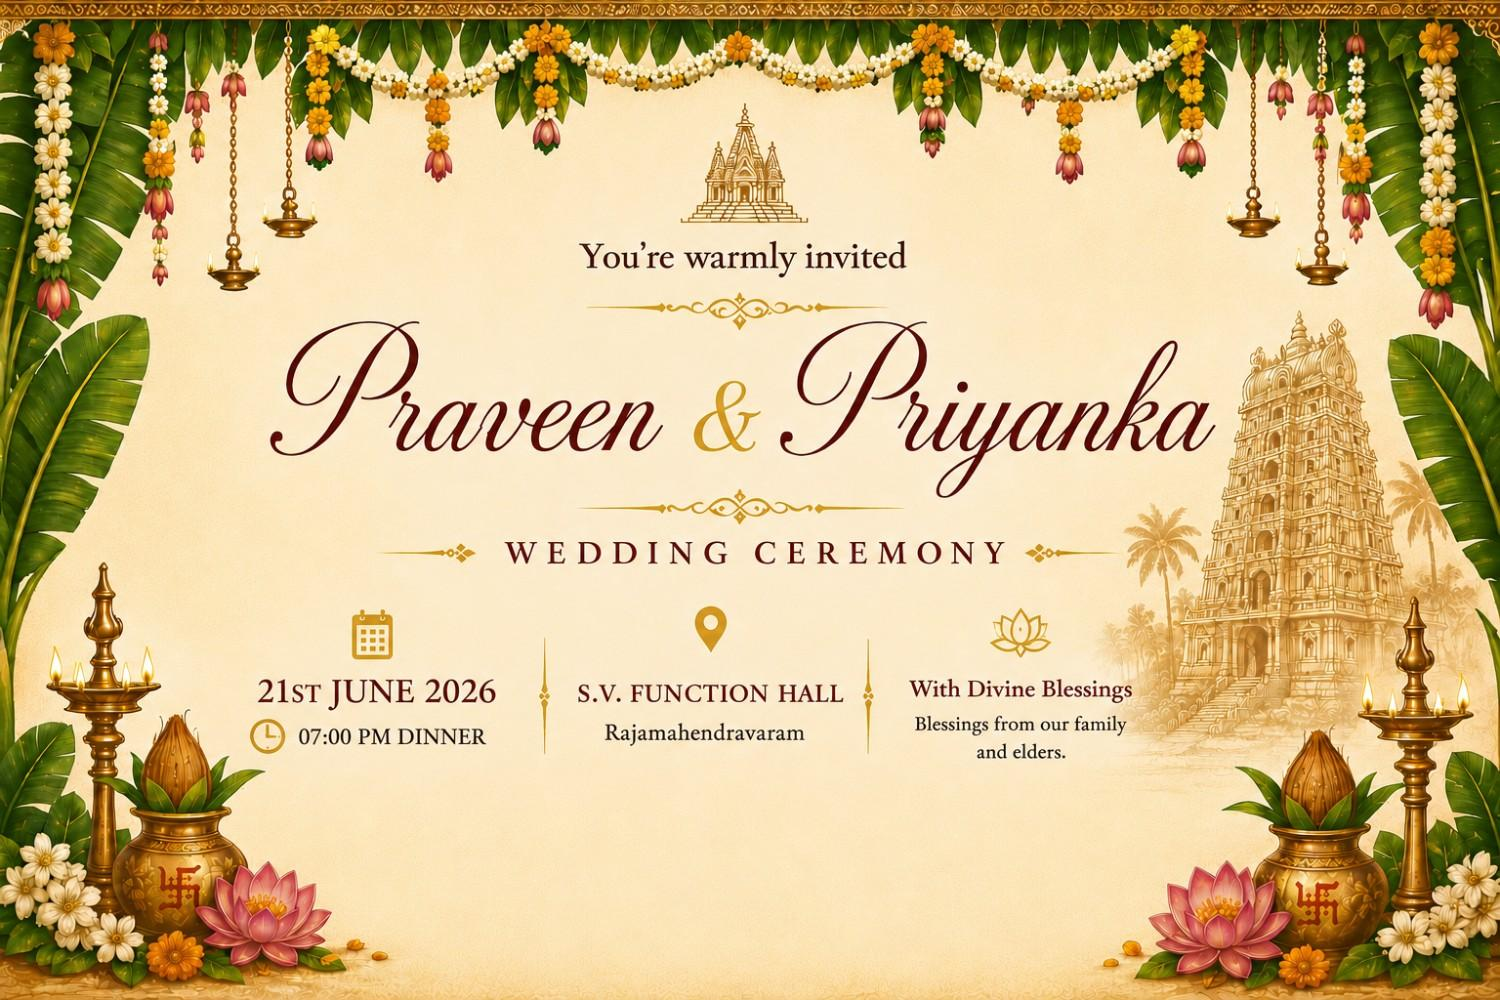
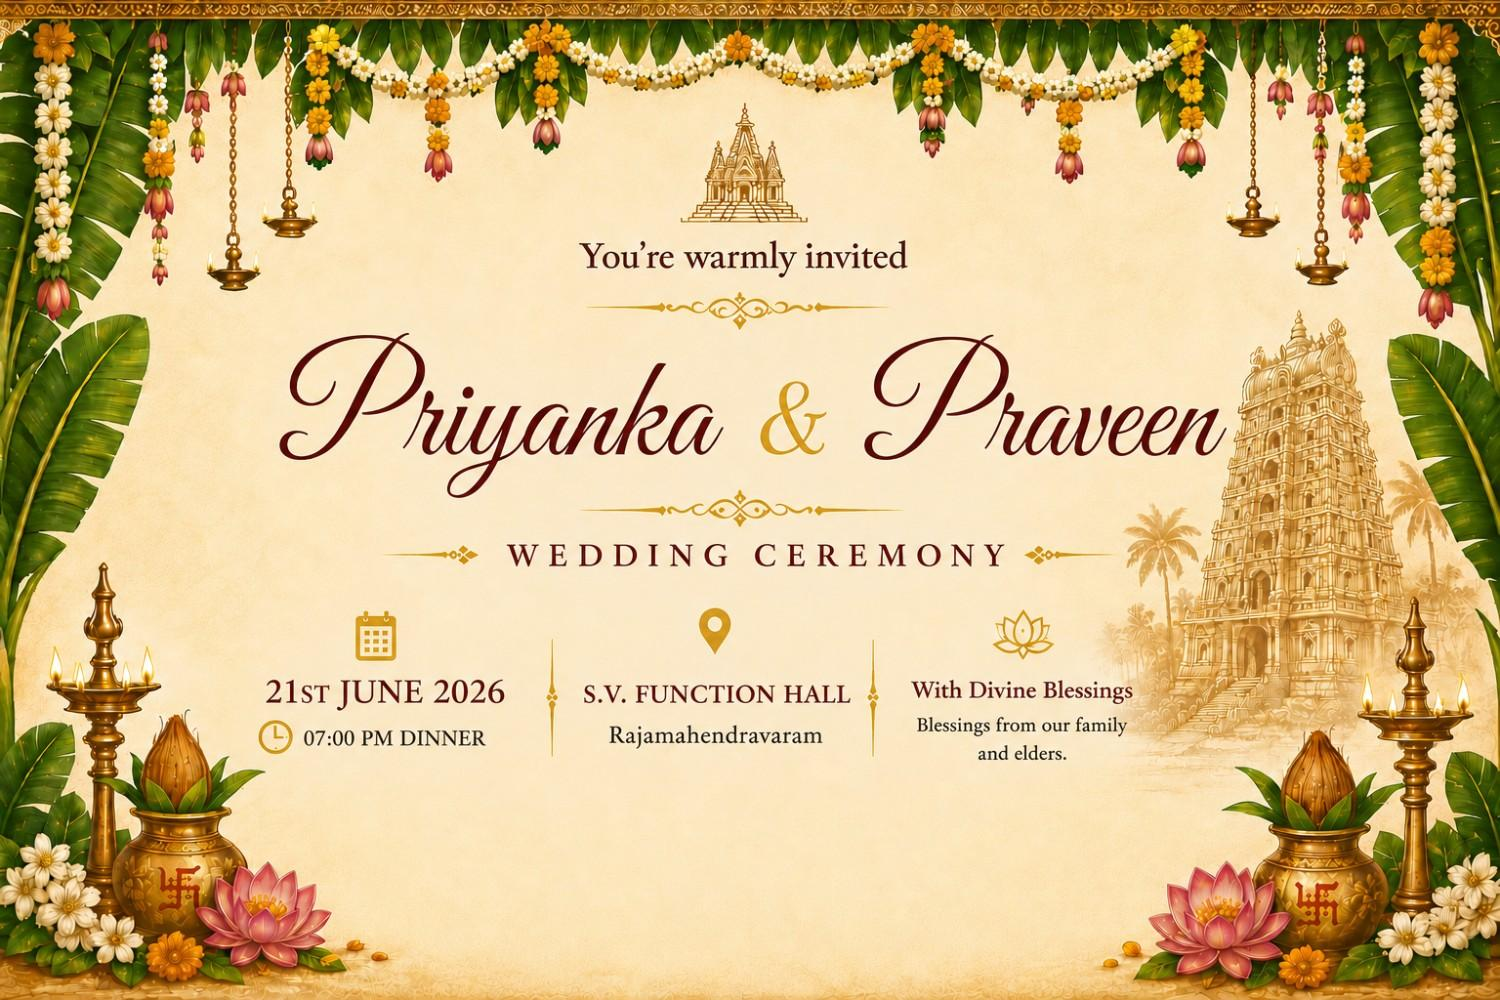
priya marriage

diff --git a/src/components/WeddingInvitation.jsx b/src/components/WeddingInvitation.jsx
@@ -19,7 +19,7 @@ const GOOGLE_MAPS_EMBED_URL =
   "https://www.google.com/maps/embed?pb=!1m18!1m12!1m3!1d4525.768375667284!2d81.804959!3d17.006156300000004!2m3!1f0!2f0!3f0!3m2!1i1024!2i768!4f13.1!3m3!1m2!1s0x3a37a3bf6658436f%3A0x9f226cd13ee3e272!2sS%20V%20Function%20Hall!5e1!3m2!1sen!2sin!4v1779564738906!5m2!1sen!2sin";
 
 const WHATSAPP_RSVP_URL =
-  "https://wa.me/918142721111?text=Hi%20Praveen%2C%20We%20are%20happy%20to%20join%20Praveen%20%26%20Priyanka's%20wedding%20celebration.%20Looking%20forward%20to%20being%20there%20and%20blessing%20the%20couple.";
+  "https://wa.me/918142721111?text=Hi%20Praveen%2C%20We%20are%20happy%20to%20join%20Priyanka%20%26%20Praveen's%20wedding%20celebration.%20Looking%20forward%20to%20being%20there%20and%20blessing%20the%20couple.";
 
 const FAMILY_CONTACT_NUMBER = "+919392015858";
 const MUHURTHAM_DATE = new Date("2026-06-22T02:32:00+05:30");
@@ -59,20 +59,20 @@ const events = [
 
 const calendarEvents = [
   {
-    title: "Praveen & Priyanka Wedding Dinner",
-    fileName: "praveen-priyanka-dinner.ics",
+    title: "Priyanka & Praveen Wedding Dinner",
+    fileName: "priyanka-praveen-dinner.ics",
     start: "20260621T190000",
     end: "20260621T223000",
     description:
-      "Wedding dinner for Praveen and Priyanka at S.V. Function Hall.",
+      "Wedding dinner for Priyanka and Praveen at S.V. Function Hall.",
   },
   {
-    title: "Praveen & Priyanka Wedding Muhurtham",
-    fileName: "praveen-priyanka-muhurtham.ics",
+    title: "Priyanka & Praveen Wedding Muhurtham",
+    fileName: "priyanka-praveen-muhurtham.ics",
     start: "20260622T023200",
     end: "20260622T043000",
     description:
-      "Wedding muhurtham for Praveen and Priyanka, early hours of 22 June.",
+      "Wedding muhurtham for Priyanka and Praveen, early hours of 22 June.",
   },
 ];
 
@@ -88,10 +88,10 @@ function buildCalendarHref(event) {
   const calendarText = [
     "BEGIN:VCALENDAR",
     "VERSION:2.0",
-    "PRODID:-//Praveen Priyanka Wedding//Invitation//EN",
+    "PRODID:-//Priyanka Praveen Wedding//Invitation//EN",
     "CALSCALE:GREGORIAN",
     "BEGIN:VEVENT",
-    `UID:${event.fileName}@praveen-priyanka-wedding`,
+    `UID:${event.fileName}@priyanka-praveen-wedding`,
     `DTSTAMP:${new Date().toISOString().replace(/[-:]/g, "").split(".")[0]}Z`,
     `DTSTART;TZID=Asia/Kolkata:${event.start}`,
     `DTEND;TZID=Asia/Kolkata:${event.end}`,
@@ -303,7 +303,7 @@ function HeroTemple() {
         <div className="pointer-events-none absolute left-1/2 top-[54%] -z-10 h-[220px] w-[min(86vw,620px)] -translate-x-1/2 -translate-y-1/2 rounded-full bg-[radial-gradient(ellipse_at_center,rgba(28,46,58,.2)_0%,rgba(28,46,58,.12)_38%,transparent_72%)] blur-xl lg:h-[250px] lg:w-[660px]" />
 
         <p className="text-[11px] font-semibold uppercase tracking-[0.46em] text-white drop-shadow-[0_2px_8px_rgba(28,43,54,.42)] sm:text-[12px]">
-          Priyanka
+          Praveen
         </p>
 
         <p className="mt-2 text-[11px] font-semibold uppercase tracking-[0.8em] text-white drop-shadow-[0_2px_8px_rgba(28,43,54,.42)] sm:text-[12px]">
@@ -314,7 +314,7 @@ function HeroTemple() {
           className="mt-2 text-[72px] font-normal leading-none text-white drop-shadow-[0_8px_24px_rgba(24,35,44,.52),0_0_20px_rgba(255,255,255,.22)] sm:text-[88px] md:text-[98px] lg:text-[112px]"
           style={scriptFont}
         >
-          Praveen
+          Priyanka
         </h1>
 
         <p className="mx-auto mt-5 max-w-[310px] text-[14px] font-semibold leading-7 text-white/95 drop-shadow-[0_3px_10px_rgba(18,29,38,.62)] sm:max-w-[380px] sm:text-[16px] lg:max-w-[520px] lg:text-[18px]">
@@ -495,7 +495,7 @@ function BlessingsSection() {
 
         <p className="mx-auto mt-4 max-w-xl text-[16px] font-medium leading-8 text-[#573728] sm:text-[18px]">
           With the blessings of Gummadi Anand, Smt. Lokeswari, and our beloved
-          elders, we request the honour of your presence as Praveen and Priyanka
+          elders, we request the honour of your presence as Priyanka and Praveen
           begin their sacred journey together.
         </p>
 
@@ -696,8 +696,8 @@ function ShareInvitationButton() {
 
   const handleShare = async () => {
     const shareData = {
-      title: "Praveen & Priyanka Wedding",
-      text: "Join us for Praveen and Priyanka's wedding celebration.",
+      title: "Priyanka & Praveen Wedding",
+      text: "Join us for Priyanka and Praveen's wedding celebration.",
       url: window.location.href,
     };
 
